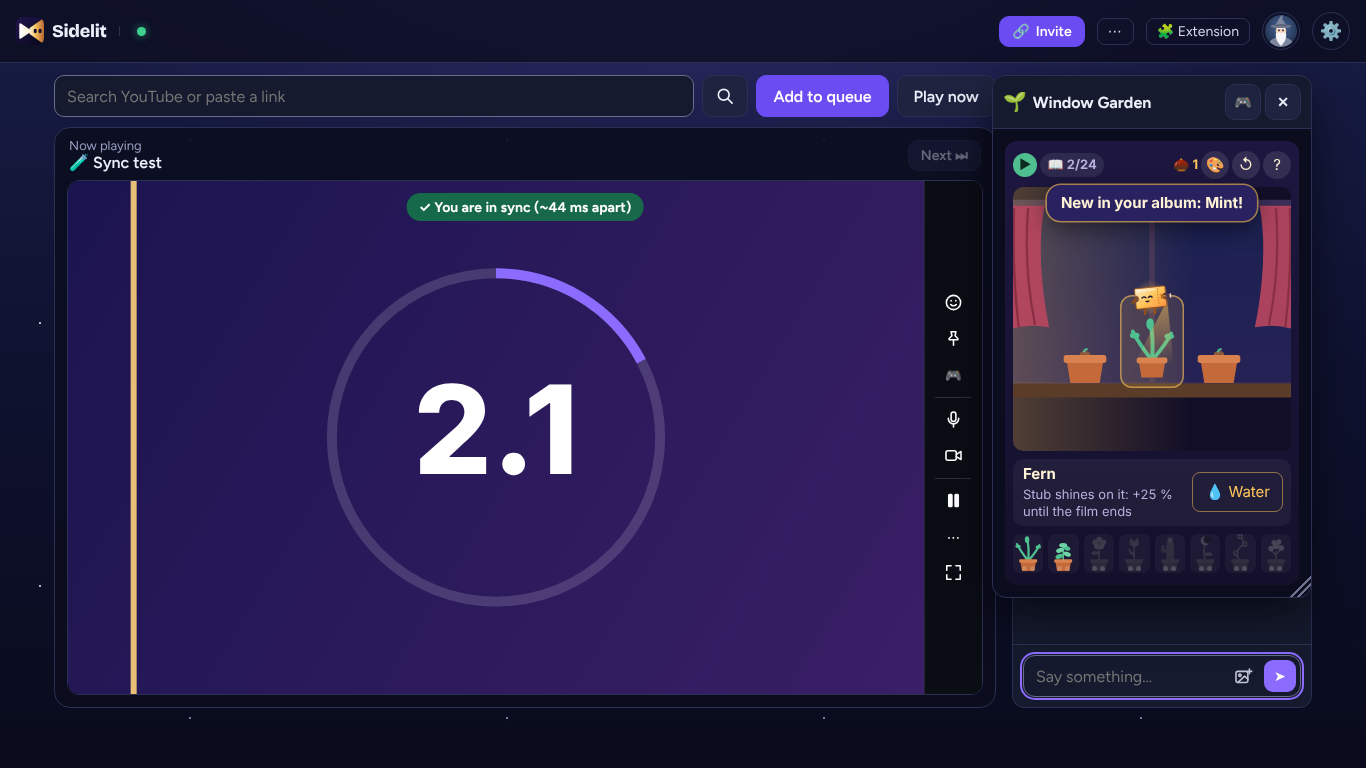
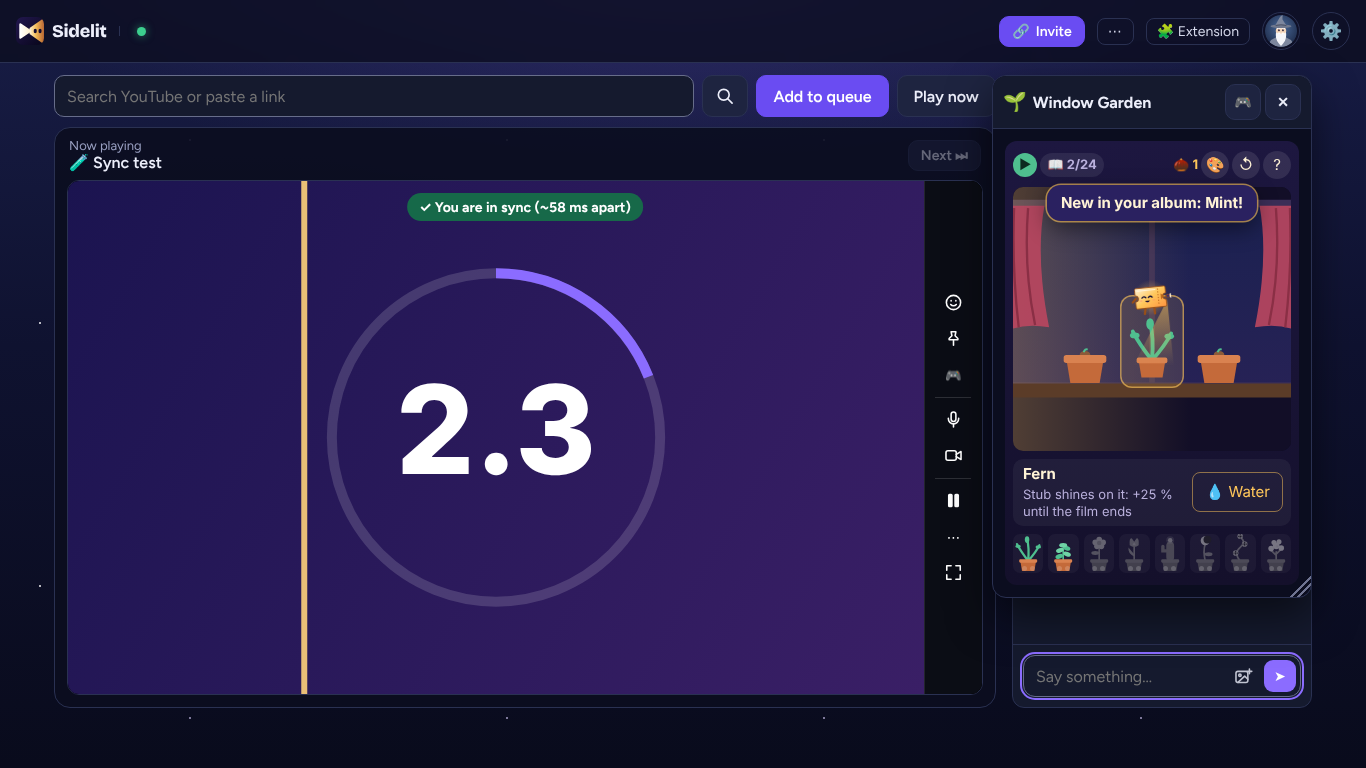
ART-S games part: Design's small Stub, Window Garden's Matinee window (dusk sky, wood frame, cream moon)
Claude-Session: https://claude.ai/code/session_015Fyri77kKC6VRbzJXM2gGZ

diff --git a/apps/web/src/games/garden.css b/apps/web/src/games/garden.css
@@ -199,9 +199,20 @@ html.phone.sideways .wg-album { align-self: start; }
 :root[data-theme='matinee'] .wg button.htp-open { background: var(--wg-fill); color: var(--text); box-shadow: inset 0 0 0 1px var(--wg-line); }
 :root[data-theme='matinee'] .wg button.htp-open:hover { background: var(--surface-2); }
 :root[data-theme='matinee'] .wg-pill.wg-state.on { background: var(--ok); color: #fff; box-shadow: none; }
-:root[data-theme='matinee'] .wg-scene { background: var(--al-120e27, #e4d9c6); box-shadow: inset 0 0 0 1px var(--border); }
-/* The disc that cuts the moon into a crescent takes the Matinee sky's colour at the moon's height (else a pale disc shows). */
-:root[data-theme='matinee'] .wg-scene-art { --al-1d2353: #d9c3ad; }
+/* ART-S #5: Window Garden in Matinee (for apps/web/src/games/garden.css, Game Studio). The window read washed out: the
+   wall was almost the panel's cream, the frame faint, the dusk sky upside down (ART-L's sill values put the peach on top)
+   and the moon, cream at an opacity, had been turned into ink by ART-L's "faint marks" rule. Scoped to the garden scene,
+   so the tutorial pictures keep their own values. */
+:root[data-theme='matinee'] .wg-scene { background: #d6c6aa; }
+:root[data-theme='matinee'] .wg-scene-art {
+  --al-120e27: #d6c6aa; /* the wall: a warm wainscot, one clear step below the panel */
+  --al-3a2e57: #7a6550; /* the window frame and its bar: dark wood */
+  --als-1a2150: #5f7fb3; /* the sky, top: dusk blue */
+  --als-2a2257: #f0c08e; /* the sky, bottom: the warm horizon */
+  --al-1d2353: #7388ae; /* the disc that cuts the moon into a crescent = the sky's colour at the moon's height */
+  --alg-fff3d6: #fff3d6; /* the moon stays cream */
+}
+:root[data-theme='matinee'] .wg-scene { box-shadow: inset 0 0 0 1px var(--border); }
 :root[data-theme='matinee'] .wg-idle .wg-scene-art { filter: saturate(0.7) brightness(0.94); }
 :root[data-theme='matinee'] .wg-rest,
 :root[data-theme='matinee'] .wg-elsewhere { background: rgb(241 234 221 / 0.94); box-shadow: 0 0 0 1px var(--border); }

diff --git a/apps/web/src/games/how-to-play.css b/apps/web/src/games/how-to-play.css
@@ -117,6 +117,6 @@ button.htp-open.htp-head:hover { background: var(--surface-2); border-color: var
   --alg-c9cbe0: #3a2f25;
   --alk-fff3d6: #564b3e;
   /* Window Garden's window: dusk */
-  --als-2a2257: #9fb2cc;
-  --als-1a2150: #e6c7a6;
+  --als-2a2257: #f0c08e;
+  --als-1a2150: #5f7fb3;
 }
